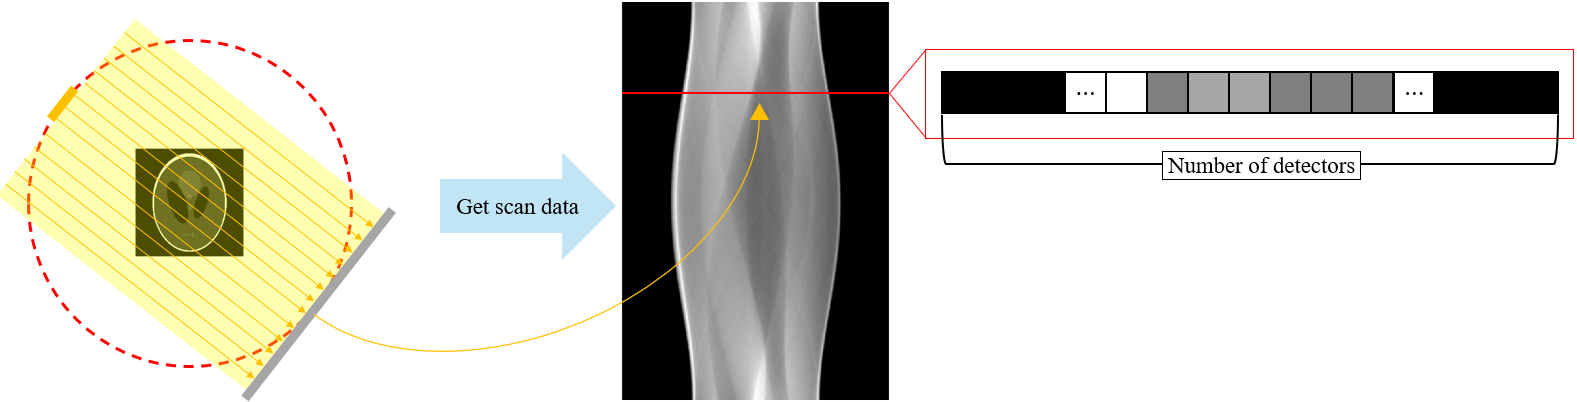
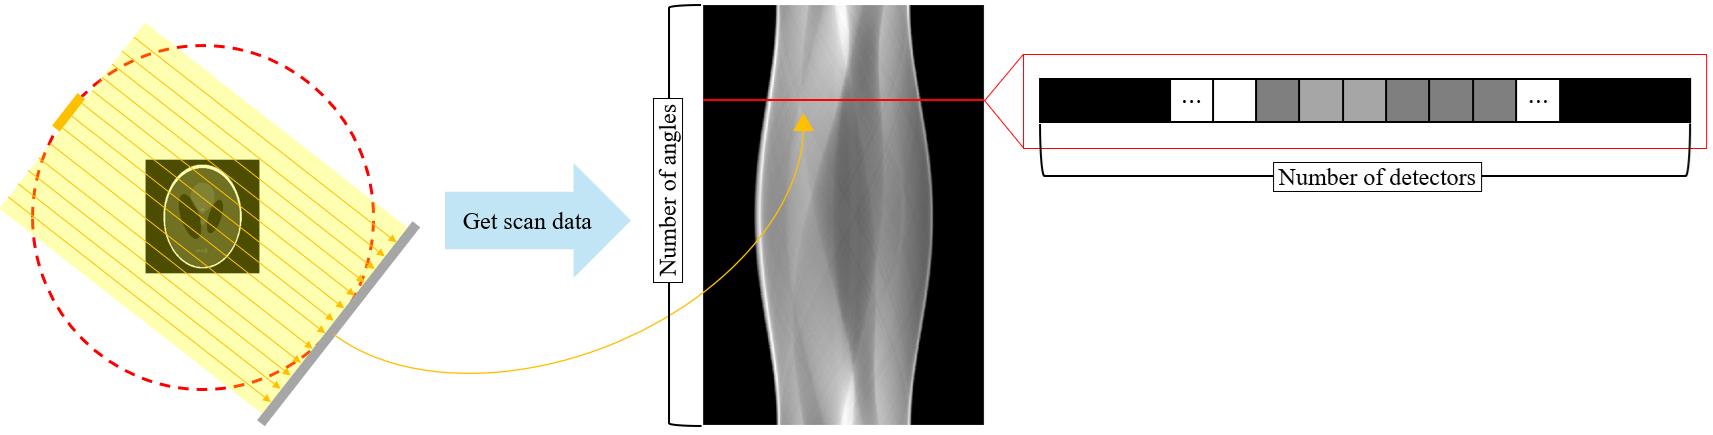
CT_5 update

Changed region(s): [[0.0, 0.0, 1.0, 1.0], [0.6525, 0.1791, 0.9321, 0.2985]]

diff --git a/_posts/2025-07-03-CT_5.md b/_posts/2025-07-03-CT_5.md
@@ -47,7 +47,7 @@ The figure below shows a magnified view of the sinogram data.
 
 <figure style="display: flex; flex-direction: column; align-items: center; margin-top: 0.5em; margin-bottom: 0.5em;">
   <img src="../images/2025-07-03-CT_5/image-20250706205721790.png" alt="Illustration of parallel-beam and sinogram data at specific angle." 
-       style="width: 90%; height: auto;">
+       style="width: 100%; height: auto;">
    <figcaption style="font-size: 20px; margin-top: -0.5em;">
    Fig.1.2 Illustration of parallel-beam and sinogram data at specific angle (in detail).
    </figcaption>
@@ -56,5 +56,24 @@ The figure below shows a magnified view of the sinogram data.
 A single horizontal line (a row) in the sinogram consists of the projection data acquired at a specific angle. 
 Each pixel within that row corresponds to the measurement from a single detector element.
 Therefore, the number of rows in the sinogram is equal to the number of angles sampled over the $2π$ rotation, and the number of pixels in each row (the number of columns) is equal to the number of detectors.
+
+
+# 2.Radon transform
+We now understand that a sinogram is composed of rows, with each row representing the set of detector measurements from a single projection angle. 
+In this section, we will examine how the data value for a single detector element is calculated.
+
+<figure style="display: flex; flex-direction: column; align-items: center; margin-top: 0.5em; margin-bottom: 0.5em;">
+  <img src="../images/2025-07-03-CT_5/image-20250707111106589.png" alt="Illustration of parallel-beam and sinogram data at specific angle with 2D plot of a single row." 
+       style="width: 100%; height: auto;">
+   <figcaption style="font-size: 20px; margin-top: -0.5em;">
+   Fig.2.1 Illustration of parallel-beam and sinogram data at specific angle with 2D plot of a single row.
+   </figcaption>
+</figure> 
+
+The figure above is a 2D plot of a single row taken from a sinogram. 
+In this plot, the x-axis corresponds to the detector index, while the y-axis represents the value measured at each detector. 
+Our focus here is to understand the method, called **Radon transform**, used to calculate these y-axis values.
+
+## 2-1) A coordinate system $(\xi, \eta)$
 
 
